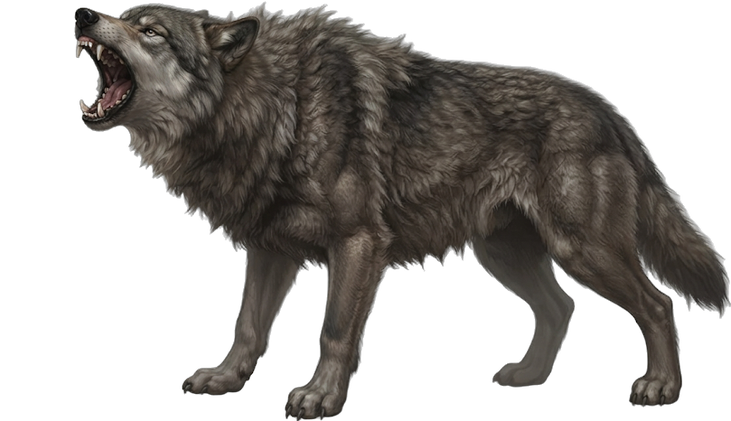
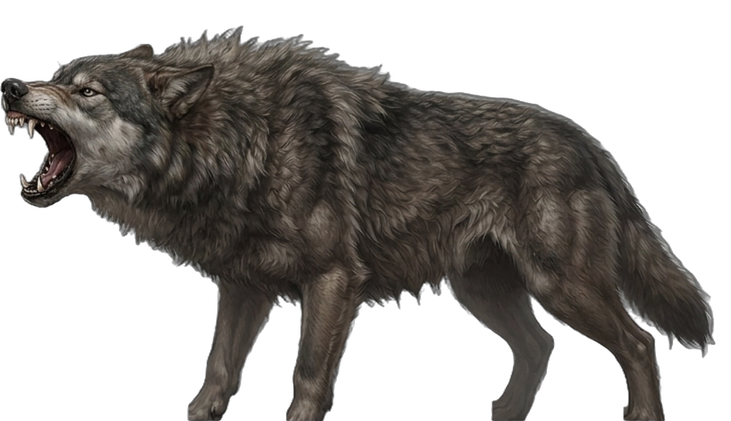
Grey Wolf: new roar picture matching its animated fur
SHOAIB's Nano Banana Pro roar picture (Nov 26), made from the wolf's own picture, so its roar no longer
looks paler than its animation frames; its mouth set for the roar burst.

Claude-Session: https://claude.ai/code/session_018PQaDKMruAW9APZjrSTPPq

diff --git a/scripts/make_roar_fx.py b/scripts/make_roar_fx.py
@@ -132,7 +132,7 @@ ROAR_MOUTHS = {
     "ghost_fire_wolf": (0.08, 0.15),
     "golden_eyed_ape_king": (0.51, 0.28),
     "golden_silk_spider": (0.37, 0.58),
-    "grey_wolf": (0.1, 0.21),
+    "grey_wolf": (0.06, 0.36),
     "horned_stag": (0.19, 0.35),
     "iron_feather_crow": (0.23, 0.36),
     "iron_hide_boar": (0.1, 0.36),
